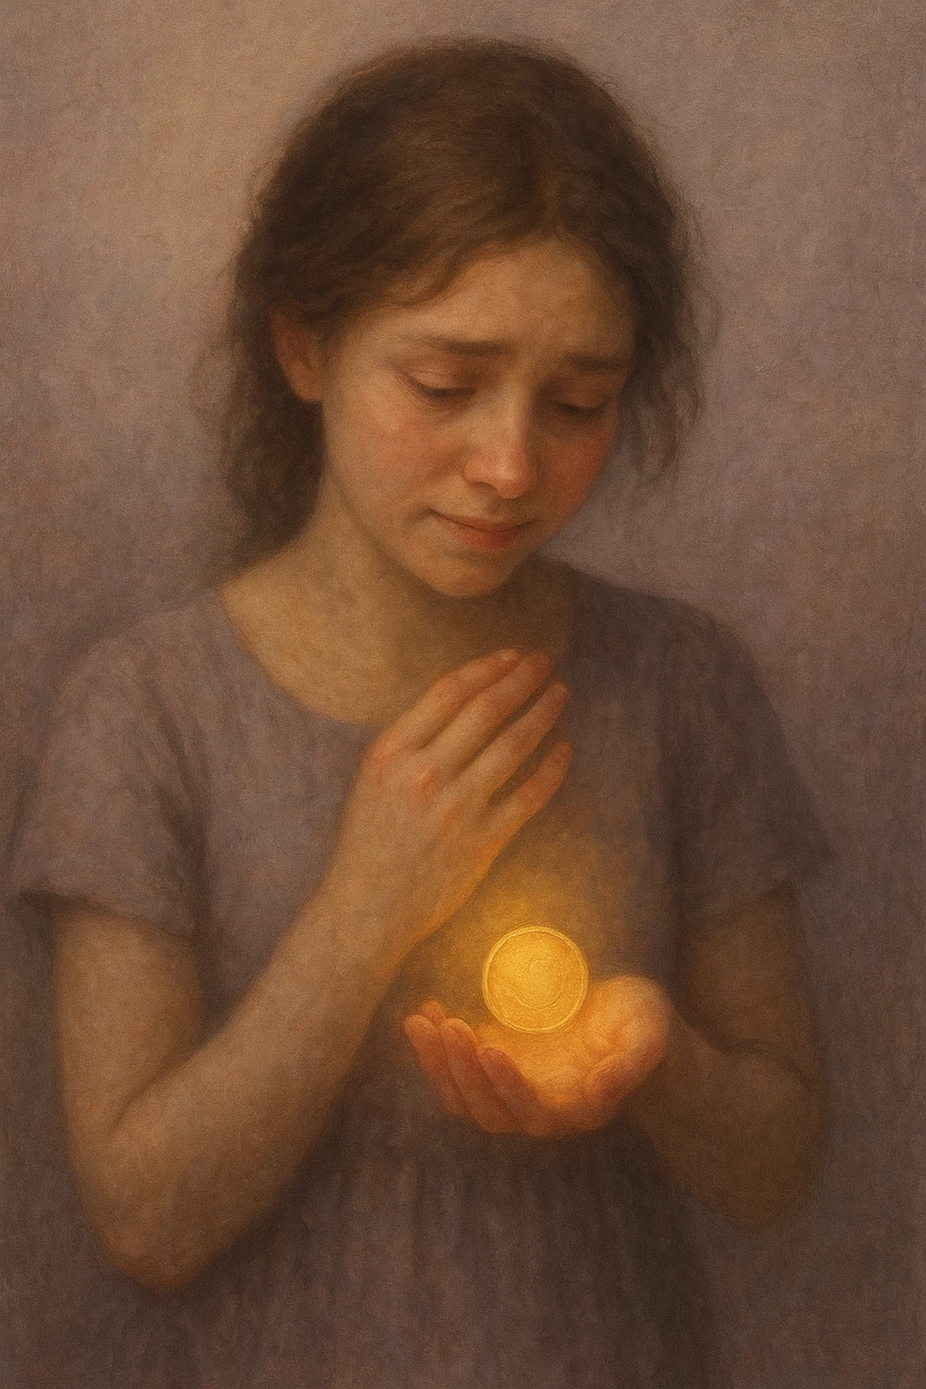
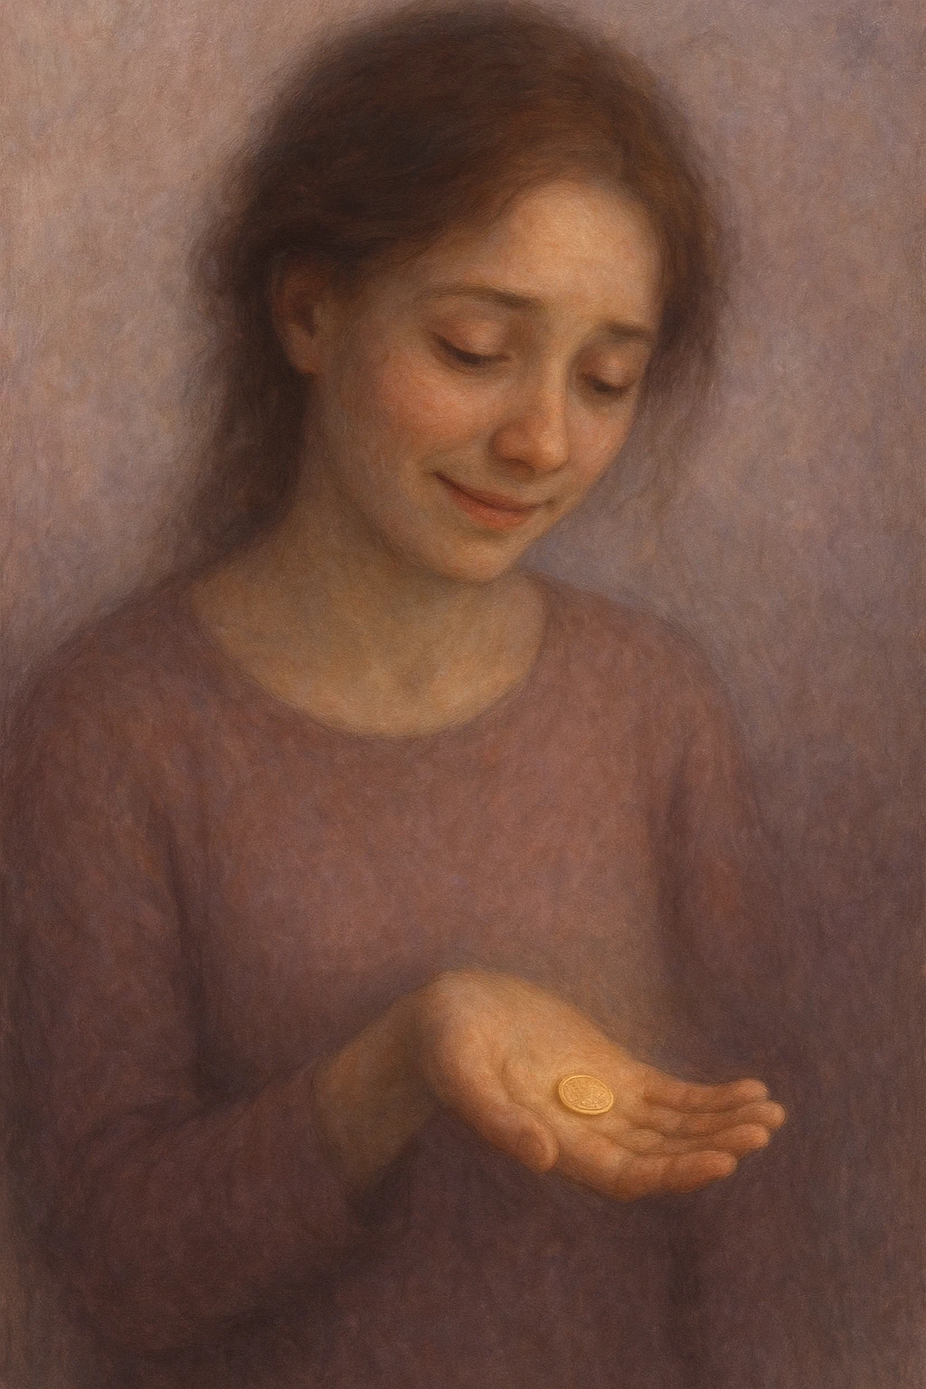
/arhiv/: переделаны 5 карт, добавлены 4 «честные» карты в «Тревогу» и 3 бытовые карты в «Деньги»
Заменены карты с рискованными образами (обрыв, нависающая волна, лица в «Мосте» и «Калитке», слёзы в «Свете сквозь пальцы»).
Новые «честные» карты без золотого света; бытовые денежные карты вместо «денежной магии».

diff --git a/arhiv/cards.js b/arhiv/cards.js
@@ -10,7 +10,7 @@ window.ARHIV_DECK = {
   "tagline": "Образы о том, что происходит внутри, когда тревожно.",
   "imageDir": "cards/img/",
   "imageExt": "webp",
-  "imageVersion": "20261114a",
+  "imageVersion": "20261114b",
   "basePrompt": "Soft hand-painted surrealist fine-art image with fine canvas grain, blending photographic realism with painterly texture, dreamlike and poetic. Pastel palette of dusty rose, mauve, lavender-grey, warm sand and cream, with a delicate golden glow as the single bright accent. Hazy atmospheric light, gentle diffused shadows. The image is built around one clear associative image (a detail of nature, an animal, a symbol, a surreal transformation, or a human gesture) that evokes feelings and associations and leaves room for the viewer's own interpretation. Dali-inspired dreamlike logic but an original composition. Quiet, hopeful mood. No text, no letters, no logos, no watermark. Vertical 2:3.",
   "noPeoplePrompt": "No people in the scene.",
   "negativePrompt": "skulls, bones, skeleton, blood, wounds, severed or disfigured body parts, gore, horror, monsters, spiders, snakes, grotesque or distorted faces, extra fingers, text, letters, logo, watermark, harsh black, heavy darkness, cartoon, 3d render",
@@ -94,11 +94,11 @@ window.ARHIV_DECK = {
     {
       "id": 5,
       "group": "look",
-      "title": "Стол на краю",
+      "title": "Недосказанное",
       "motif": "table",
       "hue": 2,
-      "desc": "Мужчина и женщина сидят друг напротив друга за накрытым столом на тонких ножках у обрыва. Они смотрят вниз, не друг на друга; на лицах тихая грусть. Между ними ровно горят две свечи.",
-      "scene": "a man and a woman sit across from each other at a set dinner table standing on very thin stilt legs at the edge of a cliff, both looking down with quiet sadness and not at each other, shoulders slightly slumped, two candles burning steadily between them",
+      "desc": "Мужчина и женщина сидят друг напротив друга за кухонным столом в сумерках. Между ними две нетронутые чашки, свеча и закрытый конверт. Оба смотрят вниз.",
+      "scene": "a man and a woman sit across from each other at a kitchen table at dusk, two untouched cups of tea and a lit candle between them, both looking down quietly, a closed envelope on the table",
       "q": "О чём сейчас трудно говорить вслух — и с кем?",
       "step": "Если хотите, напишите одну фразу, которую хотели бы сказать, но не сказали. Отправлять её необязательно.",
       "people": true,
@@ -381,12 +381,12 @@ window.ARHIV_DECK = {
       "title": "Мост из света",
       "motif": "bridge",
       "hue": 4,
-      "desc": "Мужчина протягивает руку женщине в начале моста из света над туманной пропастью. У него спокойная ободряющая улыбка, она смотрит с надеждой и сомнением.",
-      "scene": "a man stands at the beginning of a bridge made of golden light that spans a misty chasm, holding out his hand to a woman beside him, he with a reassuring gentle smile, she with hopeful but hesitant eyes, about to step onto the bridge",
+      "desc": "Две раскрытые ладони тянутся друг к другу с двух краёв кадра над туманной пропастью. Между ними светящаяся дорожка, как мост.",
+      "scene": "two open hands reaching toward each other from the left and right edges of the frame across a misty chasm, a path of golden light forming a bridge between them, soft diffused light",
       "q": "Какой самый маленький шаг вам по силам? Нужна ли вам для него чья-то поддержка?",
       "step": "Если хотите, сделайте этот шаг. Если нужна поддержка, подумайте, к кому из безопасных для вас людей можно обратиться.",
       "people": true,
-      "kind": "pair",
+      "kind": "hands",
       "verse": [
         "Мост из света",
         "начинается с протянутой руки."
@@ -416,12 +416,12 @@ window.ARHIV_DECK = {
       "title": "Калитка",
       "motif": "fence",
       "hue": 3,
-      "desc": "Мужчина стоит у открытой калитки низкой изгороди и открыто, спокойно улыбается. За ним цветущий сад. Женщина снаружи остановилась и закусила губу в раздумье.",
-      "scene": "a man stands inside a low garden fence at its open gate with a calm welcoming expression while a woman outside the fence hesitates, biting her lip, a blooming garden behind him in an otherwise empty landscape",
+      "desc": "Низкая изгородь с открытой калиткой посреди пустого пейзажа. За ней цветущий сад, на столбике сидит птичка, к калитке ведёт тропа.",
+      "scene": "a low garden fence with an open gate in an empty landscape, a blooming garden behind it, a small bird on the gatepost, a path leading through the gate",
       "q": "Где вам хочется сказать «нет» или «не сейчас», а где «да»?",
       "step": "Если хотите, сформулируйте одну границу одной фразой. Произносить её вслух сегодня необязательно.",
-      "people": true,
-      "kind": "pair",
+      "people": false,
+      "kind": "nature",
       "verse": [
         "Калитка открыта.",
         "Входить необязательно,",
@@ -434,8 +434,8 @@ window.ARHIV_DECK = {
       "title": "Волна",
       "motif": "wave",
       "hue": 5,
-      "desc": "Девочка стоит на берегу и смотрит на стеклянную волну, застывшую аркой над морем. Глаза широко раскрыты от удивления. Под аркой проплывает лодка из света.",
-      "scene": "a girl stands on the shore looking up at a glass-like wave frozen mid-air in an arch, eyes wide with awe, lips slightly parted, a small boat of golden light passing beneath it",
+      "desc": "Девочка стоит на широком тихом пляже и смотрит на небольшую стеклянную волну далеко у горизонта. На воде крошечная лодка с золотым огоньком.",
+      "scene": "a girl stands on a wide quiet beach looking at a small gentle glass-like wave far away near the horizon, a tiny boat of golden light on the water, vast calm sky, the wave is distant and peaceful",
       "q": "Что вы чувствуете, глядя на эту волну? Как она связана с вашей тревогой?",
       "step": "Если хотите, минуту-другую понаблюдайте за ощущением, не споря с ним. Заметьте, меняется оно или остаётся.",
       "people": true,
@@ -444,6 +444,78 @@ window.ARHIV_DECK = {
         "Волна замерла аркой,",
         "и под ней плывёт",
         "лодка света."
+      ]
+    },
+    {
+      "id": 25,
+      "group": "look",
+      "title": "Бумажный вихрь",
+      "kind": "symbol",
+      "motif": "birds",
+      "hue": 4,
+      "people": false,
+      "honest": true,
+      "desc": "Маленькая пустая комната, в которой одновременно кружатся сотни белых листов бумаги. В центре неподвижно стоит простой деревянный стул.",
+      "scene": "a small bare room where hundreds of white paper sheets whirl in the air at once, a plain wooden chair stands still in the middle of the room, muted grey-mauve light from a window",
+      "q": "Сколько мыслей сейчас кружится одновременно? Какая из них самая громкая?",
+      "step": "Если хотите, запишите самую громкую мысль на отдельный лист. Остальные пока могут подождать.",
+      "verse": [
+        "Листов слишком много, чтобы прочесть.",
+        "Можно не читать их все."
+      ]
+    },
+    {
+      "id": 26,
+      "group": "body",
+      "title": "Замерла среди потока",
+      "kind": "person",
+      "motif": "door",
+      "hue": 4,
+      "people": true,
+      "honest": true,
+      "desc": "Женщина в сером пальто неподвижно стоит на пешеходном переходе в тумане. Мимо неё струятся бледные размытые фигуры, а она смотрит прямо перед собой.",
+      "scene": "a woman in a grey coat stands motionless on a pedestrian crossing in soft fog while pale blurred figures stream past her, her gaze fixed ahead, calm but frozen",
+      "q": "Бывает ли так, что хочется двигаться, а тело замирает? Что в такие моменты происходит вокруг?",
+      "step": "Если получится, почувствуйте опору под ногами или под телом. Больше ничего делать не нужно.",
+      "verse": [
+        "Поток идёт мимо.",
+        "Замереть — тоже способ пережить."
+      ]
+    },
+    {
+      "id": 27,
+      "group": "look",
+      "title": "Низкий потолок",
+      "kind": "symbol",
+      "motif": "island",
+      "hue": 4,
+      "people": false,
+      "honest": true,
+      "desc": "Тяжёлые бледные облака опустились так низко, что давят на крошечный дом посреди пустого поля. Окна дома тускло светятся.",
+      "scene": "a very low ceiling of heavy pale clouds pressing down on a tiny house in an empty field, the house looks squeezed, its windows dim",
+      "q": "Что сейчас давит сверху? Сколько места при этом остаётся вам?",
+      "step": "Если хотите, заметьте, где в теле ощущается это давление. Просто заметьте.",
+      "verse": [
+        "Потолок опустился так низко,",
+        "что тесно даже мыслям."
+      ]
+    },
+    {
+      "id": 28,
+      "group": "body",
+      "title": "Ладони на груди",
+      "kind": "hands",
+      "motif": "shell",
+      "hue": 4,
+      "people": true,
+      "honest": true,
+      "desc": "Две ладони прижаты к груди серого вязаного свитера. Пальцы слегка напряжены. Лица не видно.",
+      "scene": "two hands pressed flat on the chest of a grey knitted sweater, fingers slightly spread and tense, face not shown, soft muted light",
+      "q": "Что вы чувствуете в груди и в дыхании прямо сейчас? Как это ощущается?",
+      "step": "Если хочется, положите ладонь туда, где ощущение. Если от этого неприятно, уберите руку.",
+      "verse": [
+        "Ладони лежат на груди,",
+        "как будто что-то нужно удержать."
       ]
     }
   ],
@@ -458,5 +530,6 @@ window.ARHIV_DECK = {
     "landscape": "Сюрреалистичный пейзаж",
     "symbol": "Символ",
     "object": "Предмет"
-  }
+  },
+  "honestPrompt": "Soft hand-painted surrealist fine-art image with fine canvas grain, blending photographic realism with painterly texture, dreamlike and poetic. Muted dusty palette of ash rose, grey-mauve, cool lavender-grey and sand, with no golden glow and no symbol of hope or rescue in the image. Hazy atmospheric light, gentle diffused shadows. The image is built around one clear associative image that evokes feelings and associations and leaves room for the viewer's own interpretation. Dali-inspired dreamlike logic but an original composition. The mood is honest, quiet and slightly uncomfortable, but never frightening, violent or hopeless. No text, no letters, no logos, no watermark. Vertical 2:3."
 }

diff --git a/arhiv/deck-money.js b/arhiv/deck-money.js
@@ -10,7 +10,7 @@
   "price": 390,
   "imageDir": "cards/money/",
   "imageExt": "webp",
-  "imageVersion": "20261114a",
+  "imageVersion": "20261114b",
   "questions": [
     "Что я чувствую, когда думаю о деньгах?",
     "Откуда у меня такое отношение к деньгам?",
@@ -156,8 +156,8 @@
       "motif": "shell",
       "hue": 3,
       "people": true,
-      "desc": "Молодая женщина прикрывает ладонью светящуюся золотую монету. Свет пробивается сквозь пальцы, на лице лёгкое смущение.",
-      "scene": "a young woman in a simple dress covers a glowing golden coin in her palm with her other hand, the light shining between her fingers, a shy and slightly embarrassed expression, soft diffused light",
+      "desc": "Молодая женщина держит на раскрытой ладони маленькую монету и смотрит на неё с робкой, чуть смущённой полуулыбкой.",
+      "scene": "a young woman holds a small coin in her open palm and looks at it with a shy, slightly embarrassed half-smile, warm and a little uncertain, soft diffused light",
       "q": "Что вызывает у вас неловкость или страх в отношении денег: иметь, не иметь, просить, тратить?",
       "step": "Если хотите, назовите про себя одно чувство, связанное с деньгами, как сказал бы добрый друг: «Мне неловко, и это можно».",
       "verse": [
@@ -231,6 +231,57 @@
       "verse": [
         "Хлеб, монета и спящий кот",
         "на одном подоконнике."
+      ]
+    },
+    {
+      "id": 13,
+      "group": "feelings",
+      "title": "Счета",
+      "kind": "object",
+      "motif": "table",
+      "hue": 4,
+      "people": false,
+      "desc": "Деревянный кухонный стол: аккуратная стопка счетов, маленький калькулятор, карандаш и чашка чая. Из окна падает мягкий утренний свет.",
+      "scene": "a wooden kitchen table with a neat stack of bills, a small calculator, a pencil and a cup of tea, soft morning light from the window",
+      "q": "Что вы чувствуете, когда видите платёжки и счета? Где это ощущается в теле?",
+      "step": "Если хотите, выберите один счёт и спросите себя: что в нём пугает больше, сумма или неизвестность?",
+      "verse": [
+        "Бумаги на столе лежат тихо.",
+        "Громче всего то, что в голове."
+      ]
+    },
+    {
+      "id": 14,
+      "group": "feelings",
+      "title": "Доски через ручей",
+      "kind": "landscape",
+      "motif": "bridge",
+      "hue": 1,
+      "people": false,
+      "desc": "Старый деревянный мостик через тихий ручей. Некоторых досок не хватает, вдоль мостика натянут канат-перила.",
+      "scene": "an old wooden plank footbridge across a quiet stream with a few planks missing and a rope handrail, soft pastel light",
+      "q": "Как вы живёте с неровным доходом? Что помогает держать равновесие, а что выбивает из него?",
+      "step": "Если хотите, назовите одну «доску», на которую вы опираетесь точно: человека, навык или привычку.",
+      "verse": [
+        "Не все доски на месте.",
+        "И всё же по мостику ходят."
+      ]
+    },
+    {
+      "id": 15,
+      "group": "feelings",
+      "title": "Полка в кладовой",
+      "kind": "object",
+      "motif": "suitcase",
+      "hue": 3,
+      "people": false,
+      "desc": "Кладовая: на полке несколько банок с заготовками и полупустой тканевый мешок с мукой. Рядом старый деревянный половник, из окна падает мягкий свет.",
+      "scene": "a pantry shelf with a few jars of preserves and a half-full cloth bag of flour, a worn wooden ladle, soft window light",
+      "q": "Что для вас значит «запас»? Какое чувство появляется, когда он уменьшается?",
+      "step": "Если хотите, подумайте, что именно вам нужно, чтобы чувствовать себя в безопасности: не сумма, а что вы тогда сможете делать.",
+      "verse": [
+        "Полка не полная и не пустая.",
+        "Вопрос в том, сколько нужно, чтобы дышать."
       ]
     }
   ],

diff --git a/arhiv/index.html b/arhiv/index.html
@@ -9,7 +9,7 @@
   <link rel="icon" type="image/svg+xml" href="../images/favicon.svg">
   <meta name="theme-color" content="#F5F1EB">
   <link rel="stylesheet" href="../css/fonts.css?v=2026102510">
-  <link rel="stylesheet" href="style.css?v=20261114a">
+  <link rel="stylesheet" href="style.css?v=20261114b">
 </head>
 <body>
   <div class="shell">
@@ -82,10 +82,10 @@
 
   <script src="../js/metrika-goals.js?v=2026102701"></script>
   <script src="../js/cookie-consent.js?v=20261024"></script>
-  <script src="config.js?v=20261114a"></script>
-  <script src="cards.js?v=20261114a"></script>
-  <script src="deck-money.js?v=20261114a"></script>
-  <script src="cardart.js?v=20261114a"></script>
-  <script src="app.js?v=20261114a"></script>
+  <script src="config.js?v=20261114b"></script>
+  <script src="cards.js?v=20261114b"></script>
+  <script src="deck-money.js?v=20261114b"></script>
+  <script src="cardart.js?v=20261114b"></script>
+  <script src="app.js?v=20261114b"></script>
 </body>
 </html>
